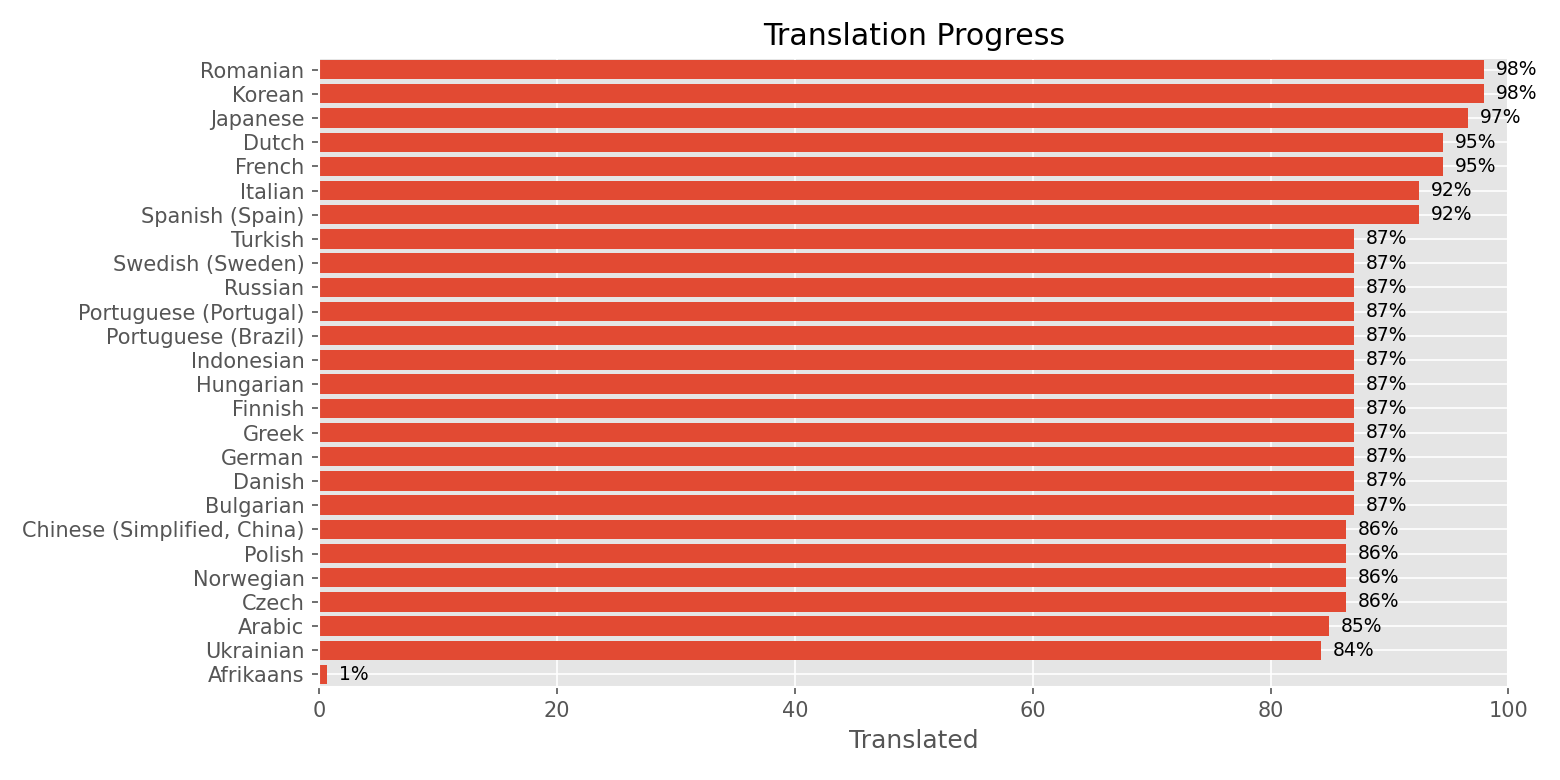
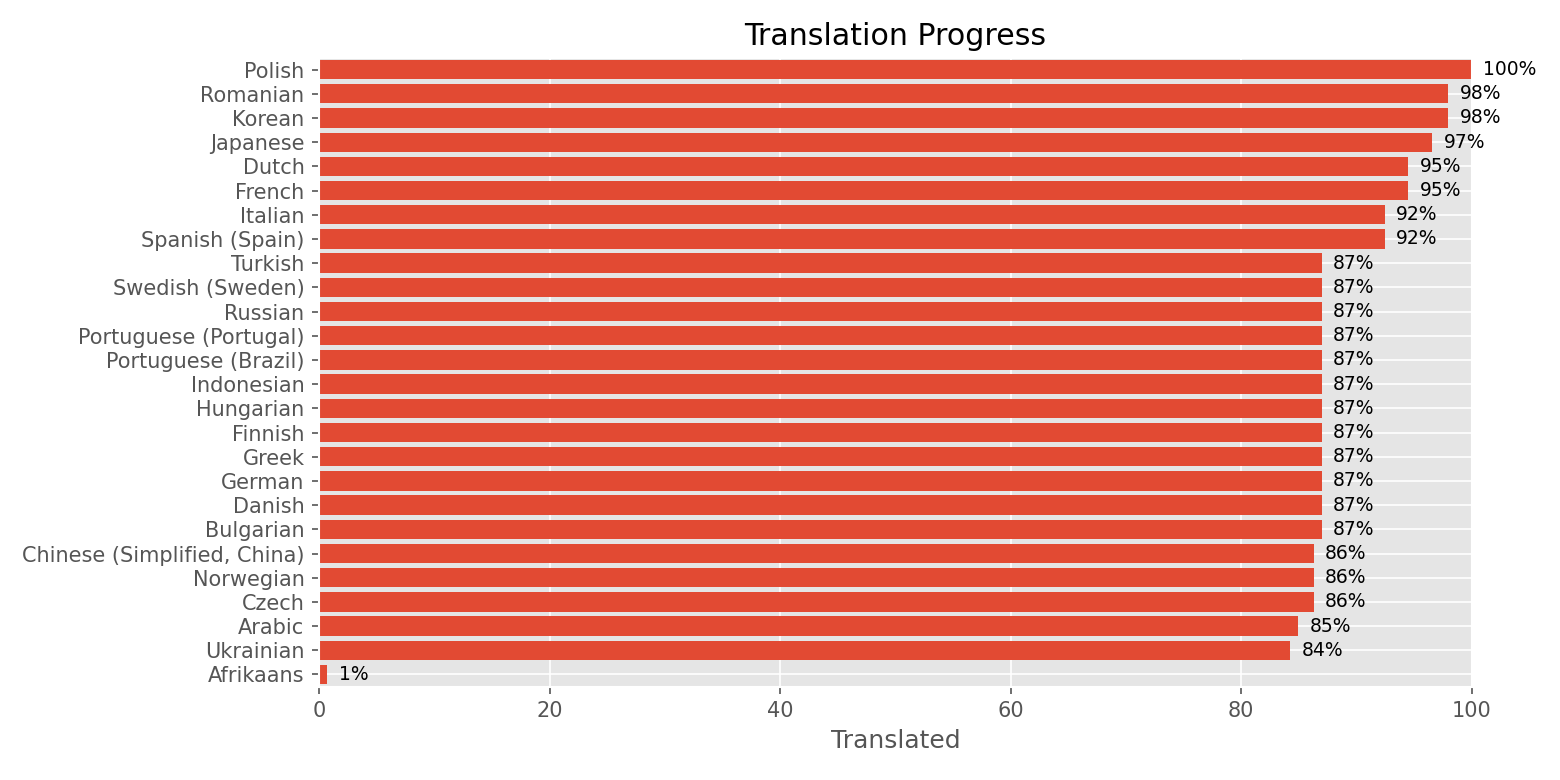
docs(AUTHORS): Credit Polish translations from Szymon Zielonka

diff --git a/CHANGELOG.md b/CHANGELOG.md
@@ -1,4 +1,10 @@
 
+# v49.2.0-dev
+
+## Translations
+
+- Polish (thanks Szymon Zielonka)
+
 # v49.1.1
 
 ## Bug Fixes
